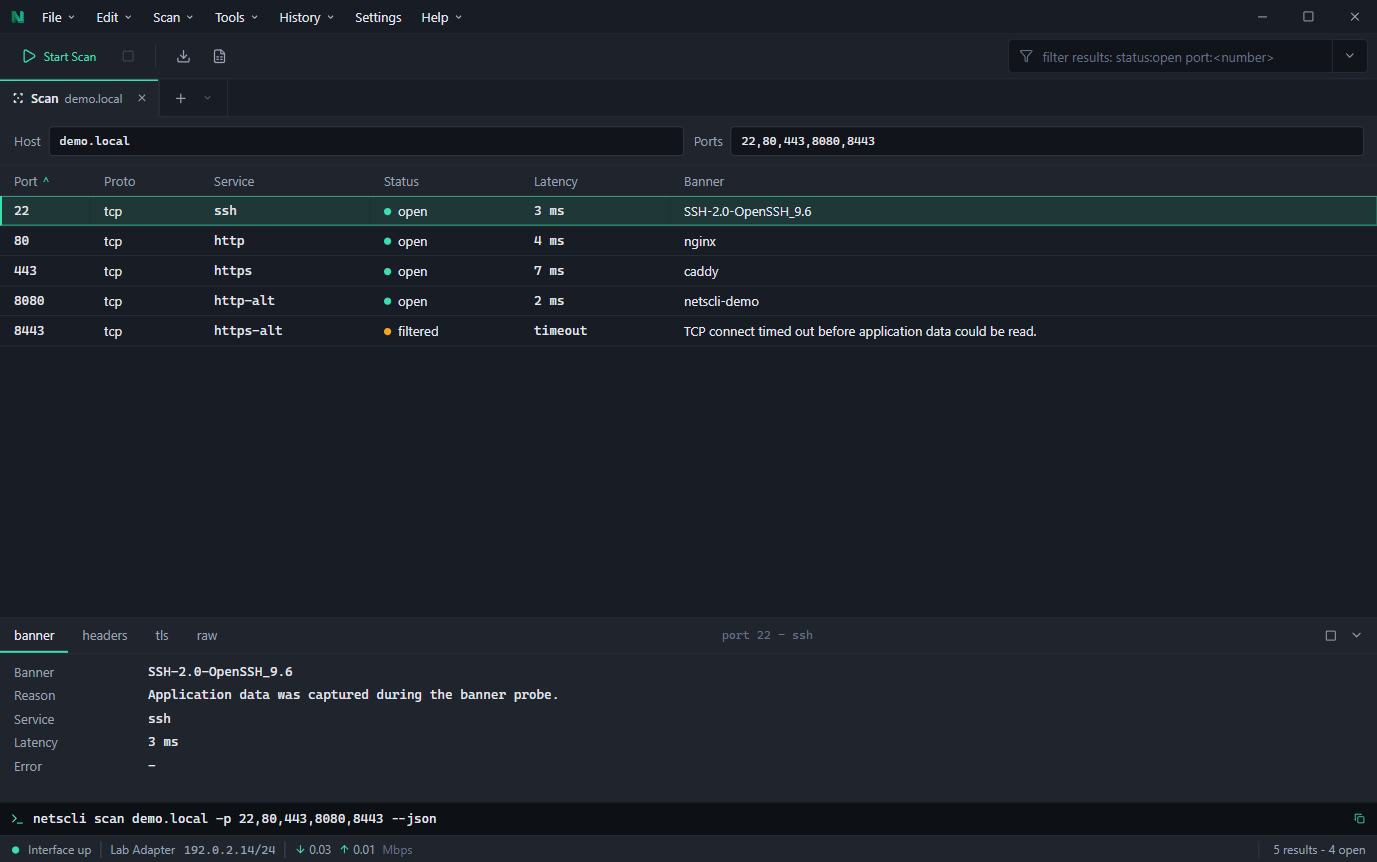
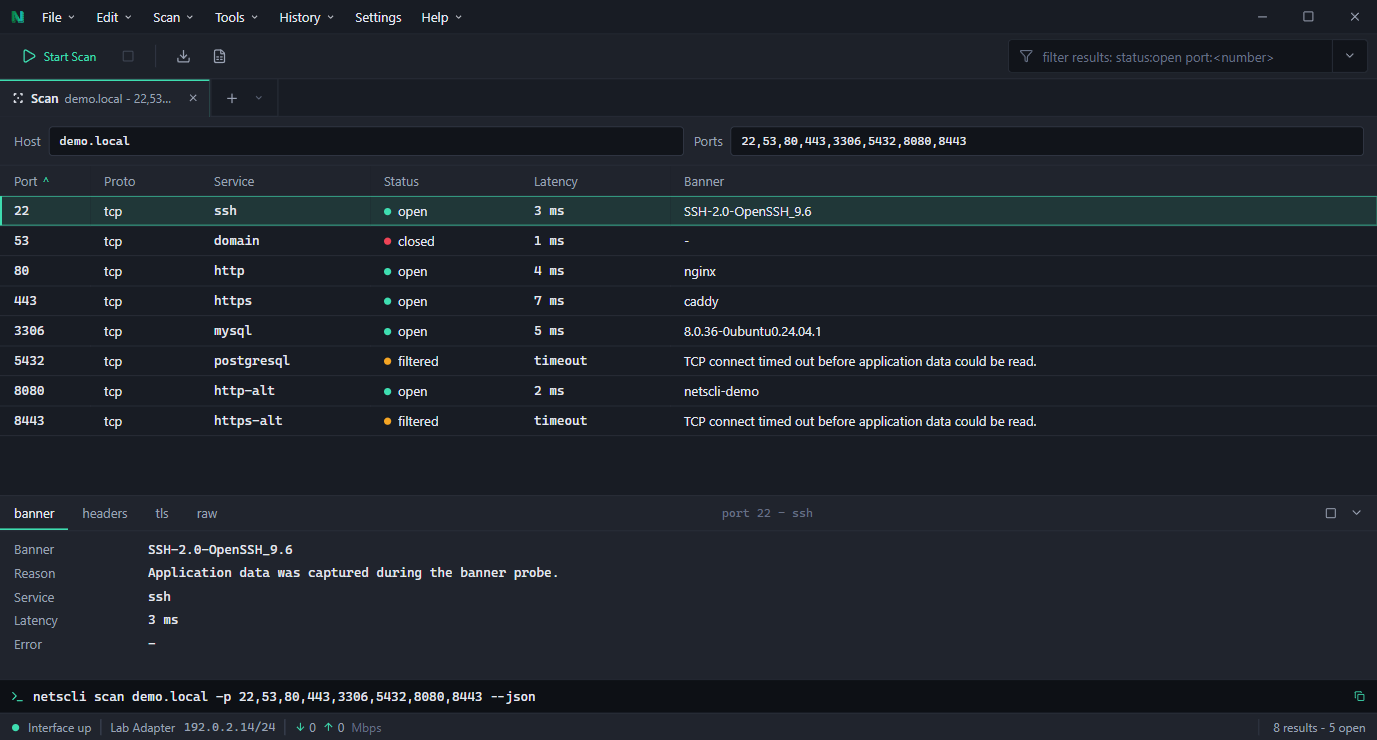
Retake the desktop app screenshot against the current demo data (#218)
The shipped shot showed a single row -- one port, on a grid with room for
twenty -- and most of the frame was empty. It was captured before the demo
data grew, and never retaken: `createDemoScreenshotTabs` had already moved to
five ports while the asset stayed at one.

Three more ports so the grid reads like a real scan rather than a probe: a
closed one, an open service with a version banner, and a second filtered one.
Eight rows now, covering all three statuses the grid colours differently --
open, closed, filtered -- with latencies, banners and a timeout reason. The
status bar reads "8 results - 5 open" instead of "1 results - 1 open".

The window chrome is React (`decorations: false`, AppFrame.tsx), so the
capture is the app's own frame, not a browser's.

Also regenerates gui-scan.webp, which is what the <picture> element actually
serves -- updating only the PNG would have shipped the old screenshot to
every browser -- and corrects the declared height from 862 to 740 so the
intrinsic ratio still matches and nothing shifts on load.

diff --git a/apps/netscli-gui/src/workspace/demoMode.ts b/apps/netscli-gui/src/workspace/demoMode.ts
@@ -99,6 +99,42 @@ const DEMO_SCAN_PORTS: PortResult[] = [
     error: null,
   },
   {
+    port: 53,
+    open: false,
+    status: 'closed',
+    service: 'domain',
+    latency_ms: 1,
+    banner: null,
+    http: null,
+    tls: null,
+    raw: null,
+    error: null,
+  },
+  {
+    port: 3306,
+    open: true,
+    status: 'open',
+    service: 'mysql',
+    latency_ms: 5,
+    banner: '8.0.36-0ubuntu0.24.04.1',
+    http: null,
+    tls: null,
+    raw: '8.0.36-0ubuntu0.24.04.1',
+    error: null,
+  },
+  {
+    port: 5432,
+    open: false,
+    status: 'filtered',
+    service: 'postgresql',
+    latency_ms: null,
+    banner: null,
+    http: null,
+    tls: null,
+    raw: null,
+    error: 'TCP connect timed out before application data could be read.',
+  },
+  {
     port: 8443,
     open: false,
     status: 'filtered',
@@ -123,7 +159,7 @@ export function createDemoScreenshotTabs(): WorkspaceTab[] {
       title: 'scan',
       form: {
         host: 'demo.local',
-        ports: '22,80,443,8080,8443',
+        ports: '22,53,80,443,3306,5432,8080,8443',
       },
       result,
       selectedIndex: 0,

diff --git a/site/src/data/site-content/surfaces.ts b/site/src/data/site-content/surfaces.ts
@@ -17,7 +17,7 @@ export const surfaces: SurfaceCard[] = [
       alt:
         'NetsCLI Desktop dark theme scan view showing sanitized demo port results, row details, command preview, and status bar',
       width: 1377,
-      height: 862,
+      height: 740,
     },
   },
   {
